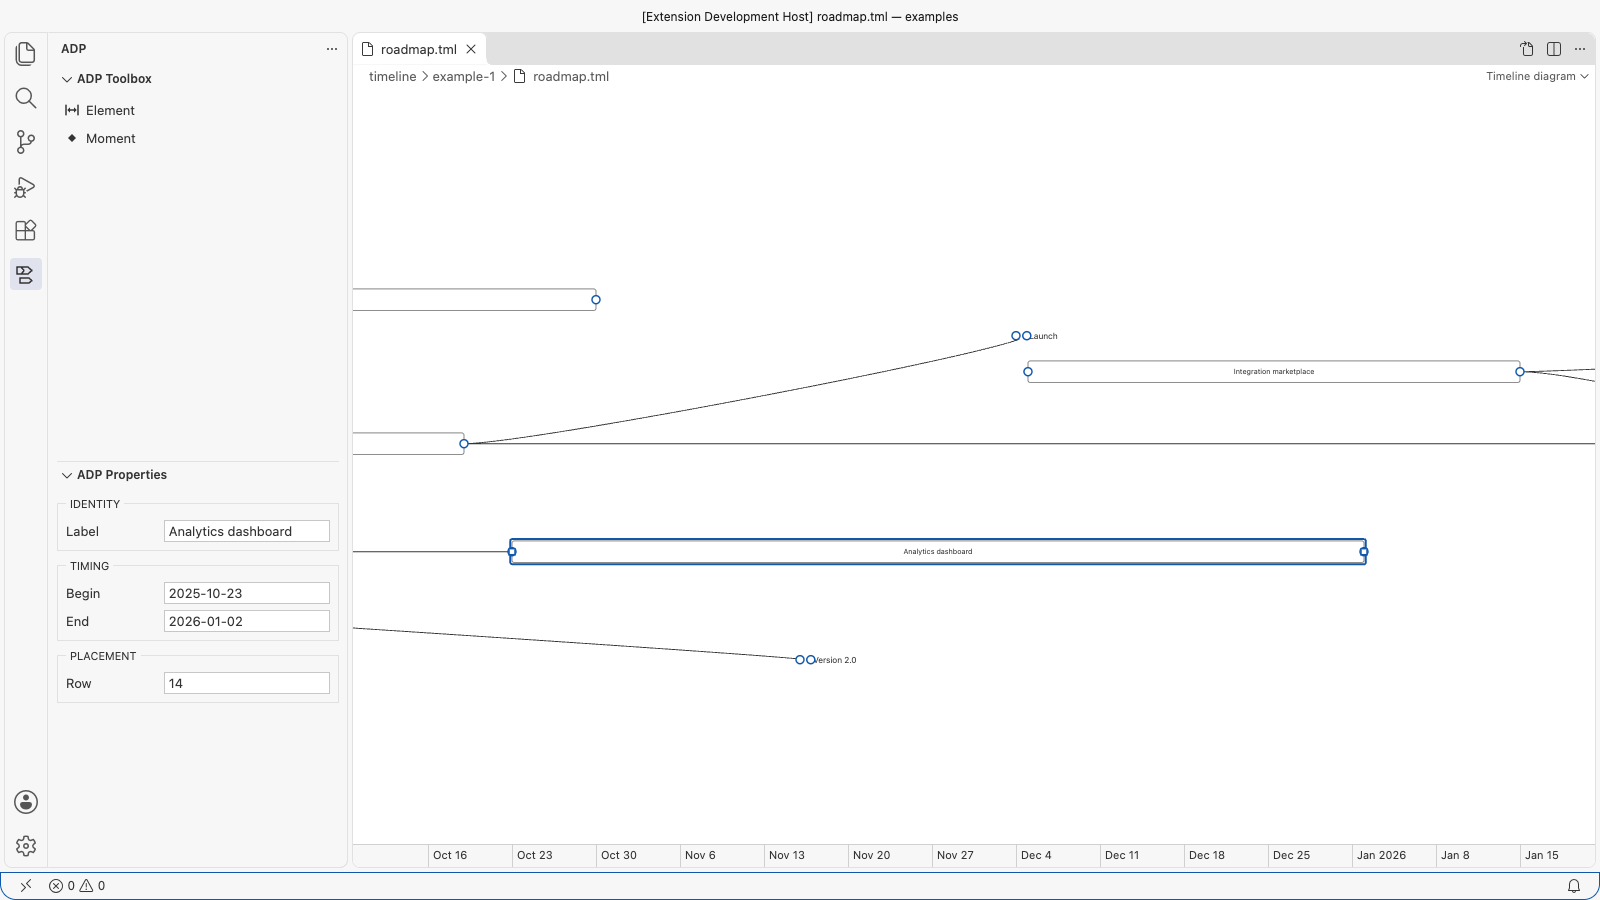
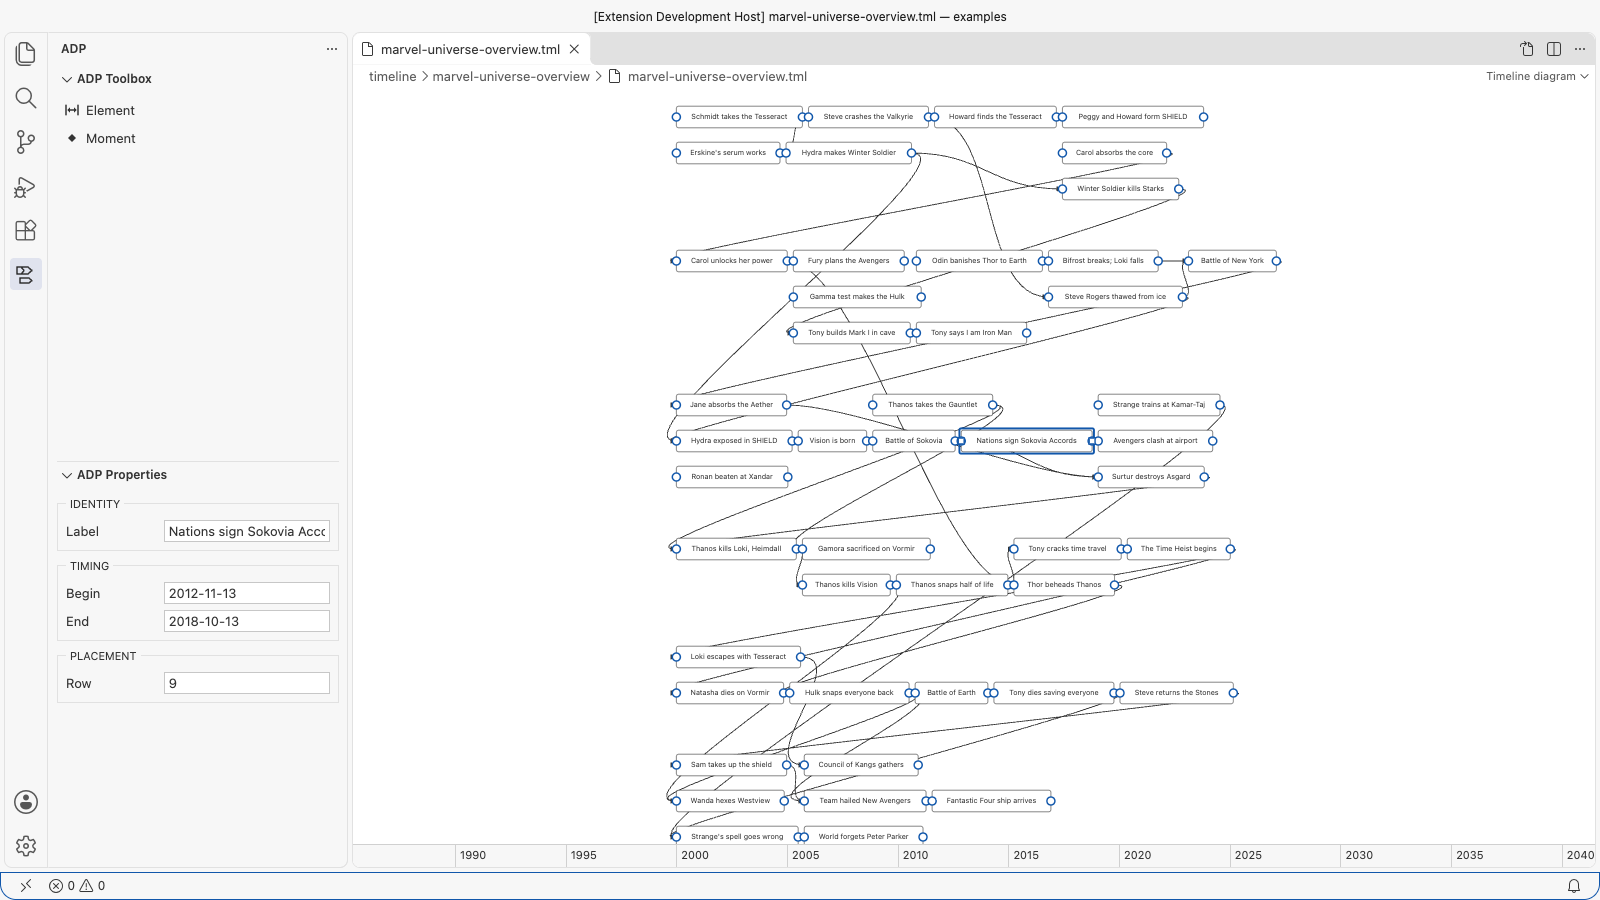
Timeline: host re-check after the fixes (spec 091, T031)
Re-ran the timeline host test after #122, #123 and #125: every example now opens
with its whole span of time in view, moments are visible diamonds and connections
enter their target from the left with an arrowhead (rows 1 to 3), marvel-universe
draws in about half a second, and a line let go on a begin dot connects. A new
user's first element still lands in 1970 (etalii.adp #853) and is lost from view
once its dates are typed, so the timeline stays a work in progress. The README
screenshot is retaken from marvel-universe-overview, which now reads.

diff --git a/docs/tools.md b/docs/tools.md
@@ -40,7 +40,7 @@ Each tool type is specified in [etalii.adp](https://github.com/etalii-adp/etalii
     <tr><td style="white-space: nowrap;">⚗&nbsp;Prototype</td><td style="white-space: nowrap;"><code>freeplane/mindmap</code></td><td>Mind map</td><td>Diagram</td><td><a href="https://en.wikipedia.org/wiki/Mind_map">Mind map (Wikipedia)</a>; <a href="https://www.freeplane.org/">Freeplane</a></td><td>Mind map (ideas branching from one central topic, the first branches to its left and right, each node with its text, notes and a link, and branches that fold; <code>.mm</code>, the Freeplane format, which FreeMind reads too, with everything the tool does not understand kept byte for byte); <a href="https://github.com/etalii-adp/etalii.adp/blob/develop/definitions/diagrams/mindmap.md">definition</a> · <a href="https://github.com/etalii-adp/etalii.adp.ide.vscode/tree/develop/examples/mindmap">two example maps</a>, the standalone host's own</td></tr>
     <tr><td style="white-space: nowrap;">⚗&nbsp;Prototype</td><td style="white-space: nowrap;"><code>systems/causal-loop-diagram</code></td><td>Causal loop diagram</td><td>Diagram</td><td><a href="https://en.wikipedia.org/wiki/Causal_loop_diagram">Causal loop diagram (Wikipedia)</a>; system dynamics</td><td>Causal loop diagram (variables joined by causal links that state a polarity and may be delayed, and the feedback loops an author claims, each checked against the arrows as reinforcing, balancing or undecidable; <code>.cld</code>, a line-based text format of the standalone host, with positions kept in the <code>.adp</code> registration beside it); <a href="https://github.com/etalii-adp/etalii.adp/blob/develop/definitions/diagrams/causal-loop-diagram.md">definition</a> · <a href="https://github.com/etalii-adp/etalii.adp.ide.vscode/tree/develop/examples/causal-loop-diagram">six example diagrams</a>, the standalone host's own; exports the animated flow page the desktop host does</td></tr>
     <tr><td style="white-space: nowrap;">⚗&nbsp;Prototype</td><td style="white-space: nowrap;"><code>generic/dependencies</code></td><td>Dependency graph</td><td>Diagram</td><td>A notation of ADP's own on the <code>generic/timeline</code> model: no standards body owns "a box depends on a box", so ADP defines the schema and owns the extension; specified in DISL 0.10 and FBL in <a href="https://github.com/etalii-adp/etalii.adp/blob/develop/definitions/diagrams/dependency-graph.md">etalii.adp</a></td><td>Dependency graph (named nodes on rows, freely placed and joined by directed depends-on edges drawn with an arrowhead; <code>.dgr</code>, ADP's own YAML schema); built to the standalone host's behaviour by etalii.adp spec 088: its findings, drawing, menus, rows, gestures and every edit of standalone's parity transcript, the differences listed in <a href="https://github.com/etalii-adp/etalii.adp.ide.vscode/blob/develop/docs/disl-support.md">disl-support.md</a>; host-tested beside the standalone host in <a href="https://github.com/etalii-adp/etalii.adp.ide.vscode/blob/develop/docs/host-tests/dependency-graph.md">host-tests/dependency-graph.md</a>; <a href="https://github.com/etalii-adp/etalii.adp/blob/develop/definitions/diagrams/dependency-graph.md">definition</a> · <a href="https://github.com/etalii-adp/etalii.adp.ide.vscode/tree/develop/examples/dependency-graph">one example graph</a>, the standalone host's own</td></tr>
-    <tr><td style="white-space: nowrap;">🛠&nbsp;Work-in-progress</td><td style="white-space: nowrap;"><code>generic/timeline</code></td><td>Timeline diagram</td><td>Diagram</td><td>A notation of ADP's own: elements with a begin and an end, and moments, on rows against a ruler of dates; specified in DISL and FBL in <a href="https://github.com/etalii-adp/etalii.adp/blob/develop/definitions/diagrams/timeline.md">etalii.adp</a></td><td>Timeline diagram (periods as bars and moments as diamonds on rows, under a ruler that runs from decades down to days, joined by connections; <code>.tml</code>, ADP's own YAML schema); being built to the standalone host's behaviour by etalii.adp spec 091: its findings, drawing, gestures snapped to whole days, Give it an end and Remove its end, and Arrange diagram, replayed against the timeline's conformance fixtures, the differences listed in <a href="https://github.com/etalii-adp/etalii.adp.ide.vscode/blob/develop/docs/disl-support.md">disl-support.md</a> and <a href="https://github.com/etalii-adp/etalii.adp.ide.vscode/blob/develop/docs/parity.md">parity.md</a>; host-tested beside the standalone host in <a href="https://github.com/etalii-adp/etalii.adp.ide.vscode/blob/develop/docs/host-tests/timeline.md">host-tests/timeline.md</a>, which found blocking differences; <a href="https://github.com/etalii-adp/etalii.adp/blob/develop/definitions/diagrams/timeline.md">definition</a> · <a href="https://github.com/etalii-adp/etalii.adp.ide.vscode/tree/develop/examples/timeline">four examples</a>, the standalone host's own</td></tr>
+    <tr><td style="white-space: nowrap;">🛠&nbsp;Work-in-progress</td><td style="white-space: nowrap;"><code>generic/timeline</code></td><td>Timeline diagram</td><td>Diagram</td><td>A notation of ADP's own: elements with a begin and an end, and moments, on rows against a ruler of dates; specified in DISL and FBL in <a href="https://github.com/etalii-adp/etalii.adp/blob/develop/definitions/diagrams/timeline.md">etalii.adp</a></td><td>Timeline diagram (periods as bars and moments as diamonds on rows, under a ruler that runs from decades down to days, joined by connections; <code>.tml</code>, ADP's own YAML schema); being built to the standalone host's behaviour by etalii.adp spec 091: its findings, drawing, gestures snapped to whole days, Give it an end and Remove its end, and Arrange diagram, replayed against the timeline's conformance fixtures, the differences listed in <a href="https://github.com/etalii-adp/etalii.adp.ide.vscode/blob/develop/docs/disl-support.md">disl-support.md</a> and <a href="https://github.com/etalii-adp/etalii.adp.ide.vscode/blob/develop/docs/parity.md">parity.md</a>; host-tested beside the standalone host in <a href="https://github.com/etalii-adp/etalii.adp.ide.vscode/blob/develop/docs/host-tests/timeline.md">host-tests/timeline.md</a>, whose re-check after the fixes leaves a new user's first element in 1970 and out of view; <a href="https://github.com/etalii-adp/etalii.adp/blob/develop/definitions/diagrams/timeline.md">definition</a> · <a href="https://github.com/etalii-adp/etalii.adp.ide.vscode/tree/develop/examples/timeline">four examples</a>, the standalone host's own</td></tr>
     <tr><td style="white-space: nowrap;">⚗&nbsp;Prototype</td><td style="white-space: nowrap;"><code>etalii/knowledge</code></td><td>Knowledge</td><td>Designer</td><td>A table of knowledge as <a href="https://www.notion.com/help/database-properties">Notion's databases</a> have it, kept in a plain file; specified in DESL 0.1 and FBL in <a href="https://github.com/etalii-adp/etalii.adp/blob/develop/definitions/designers/knowledge.md">etalii.adp</a></td><td>Knowledge (rows and typed properties in a YAML, JSON or XML file you own: text, number, checkbox, date, date and time, time, selection, multiple selection and relation, with stored views that choose, order, sort, filter and group the columns; a file opens in the designer when its envelope names it, and every other YAML, JSON and XML file stays text); <a href="https://github.com/etalii-adp/etalii.adp/blob/develop/definitions/designers/knowledge.md">definition</a> · <a href="https://github.com/etalii-adp/etalii.adp.ide.vscode/tree/develop/examples/knowledge">one table in each of the three formats, and the table its relation names</a>, the standalone host's own</td></tr>
     <tr><td colspan="6"><h3>Service management</h3><p>Tool types for seeing how a service is delivered, measured and learned from.</p></td></tr>
     <tr><td style="white-space: nowrap;">🛠&nbsp;Work-in-progress</td><td style="white-space: nowrap;"><code>generic/value-stream-map</code></td><td>Value stream map</td><td>Diagram</td><td><a href="https://en.wikipedia.org/wiki/Value-stream_mapping">Value-stream mapping</a>, as ITIL 4 uses it for a service's value streams; specified in DISL and FBL in <a href="https://github.com/etalii-adp/etalii.adp/blob/develop/definitions/diagrams/value-stream-map.md">etalii.adp</a></td><td>Value stream map (a trigger, steps with their performer, process and waiting time, and an outcome joined by flows, in a current and a future state; <code>.vsm</code>, ADP's own YAML schema); being built by etalii.adp spec 090: it opens, draws and edits, Create future state included, with the totals of each state and the comparison of the two, the differences listed in <a href="https://github.com/etalii-adp/etalii.adp.ide.vscode/blob/develop/docs/disl-support.md">disl-support.md</a>; <a href="https://github.com/etalii-adp/etalii.adp/blob/develop/definitions/diagrams/value-stream-map.md">definition</a> · <a href="https://github.com/etalii-adp/etalii.adp.ide.vscode/tree/develop/examples/value-stream-map">two examples</a></td></tr>

diff --git a/docs/host-tests/timeline.md b/docs/host-tests/timeline.md
@@ -100,3 +100,63 @@ None is fixed in this change.
 ## Verdict
 
 Blocking. Visual Studio Code reads and draws all four examples without a finding, as fast as SC-004 asks, and a new user can reach three periods, a moment and a connection; but moments are not drawn, connections show no arrowheads, a long timeline can never be seen whole or readably, a new timeline starts in 1970, and letting go on a dot duplicates an element. The timeline stays a work in progress in [tools.md](../tools.md) until rows 1 to 3 and the bugs above are settled.
+
+## Re-check after the fixes
+
+The same tests on 2026-11-25, after [#122](https://github.com/etalii-adp/etalii.adp.ide.vscode/pull/122) (moments in the theme's accent colour, a line let go on a dot connects), [#123](https://github.com/etalii-adp/etalii.adp.ide.vscode/pull/123) (the time axis fitted to the document when it opens) and [#125](https://github.com/etalii-adp/etalii.adp.ide.vscode/pull/125) (a line's end direction is the side it enters by). This repository's `develop` at `2cf32f8`, packaged as `etalii-adp-0.2.4.vsix` and installed into a fresh profile, on the same Mac, Visual Studio Code 1.147.0, 1600×900, both themes. The standalone host is unchanged (`9555565`), so its pictures above still stand beside these.
+
+### Rows 1, 2 and 3
+
+| | Light | Dark |
+|---|---|---|
+| `example-1` / `example-2` | ![example-1, light](timeline/recheck-example-1-light.png) | ![example-2, dark](timeline/recheck-example-2-dark.png) |
+| `marvel-universe-overview` | ![Overview, light](timeline/recheck-overview-light.png) | ![Overview, dark](timeline/recheck-overview-dark.png) |
+
+| # | Then | Now | Result |
+|---|---|---|---|
+| 1 | About three months in view at 20 units a day; a long timeline never readable whole | Every example opens with its whole span of time in view and its labels readable: `example-1` from April 2025 to July 2026, `example-2` 2024 to 2029, both overviews 1990 to 2040, the ruler naming years. All the rows of `example-1` and `example-2` are in view. `marvel-universe-overview`'s last row (row 20, Strange's spell goes wrong and World forgets Peter Parker) lies under the ruler: the drawing ends 36 pixels below the ruler's top. `marvel-universe` has 233 rows, and about 20 of them are in view, so the rest are reached by scrolling down ([picture](timeline/recheck-marvel-universe-light.png)); the standalone host draws all 233 in one column too small to read | Passes for time. The overview's last row is hidden, which is a small bug of the fit. The tall document opening at a readable size is this host's convention ([parity.md](../parity.md)) |
+| 2 | No diamond | A filled diamond in the theme's accent colour, in both themes ([picture](timeline/recheck-arrowheads-dark.png)). Its two dots cover most of it, as the standalone host's dots do | Passes |
+| 3 | No arrowheads; lines entering from the right | Every line enters its target from the left, with a filled arrowhead before the target's begin, pointing into it ([picture](timeline/recheck-arrowheads-dark.png)) | Passes |
+
+Two smaller differences remain. A connection to a target that begins before its source ends runs straight back underneath the source's bar, where the standalone host loops forward and back ([picture](timeline/recheck-new-user-done.png)); timeline.dis does not ask for the loop (`bezier.backward`). On a short bar, the begin dot covers the first letter of its label ("ntegration ...", "ngesti..."), as in the standalone host.
+
+### `marvel-universe.tml` (SC-004)
+
+| Run | First drawn | All 907 drawn |
+|---|---|---|
+| 1 | 460 ms | 684 ms |
+| 2 | 306 ms | 497 ms |
+| 3 | 302 ms | 519 ms |
+
+Pan and zoom, 60 wheel steps each and again zoomed fully out: median 16.7 ms between frames, 95th percentile 17.2 to 18.9 ms, maximum 35.8 ms, no frame over 50 ms. No stutter. Passes.
+
+### A new user, again (SC-005)
+
+The same steps, in a fresh profile with an empty folder, Light Modern.
+
+| Step | Now |
+|---|---|
+| "New Timeline" in the Command Palette | Still two matches, the ADP command and Explorer: Focus on Timeline View. |
+| ADP: New Timeline diagram, OK | `untitled.tml` opens with ADP Toolbox, on an empty canvas whose ruler reads "Jan 1970". |
+| Element from ADP Toolbox | **"New element" from 1970-02-01 to 1970-02-15** ([picture](timeline/recheck-new-user-1970.png)): etalii.adp [#853](https://github.com/etalii-adp/etalii.adp/issues/853), still open. |
+| Begin set to `2026-01-05` in ADP Properties | **The element disappears**, with one warning in the status bar. |
+| End set to `2026-02-15` | The element is valid again but drawn 56 years from the view, which stays on February 1970 ([picture](timeline/recheck-new-user-out-of-view.png)). There is still no command to show the whole timeline or the selection; the fit of #123 happens only when the file opens, so I closed the tab and opened the file again. |
+| Tab, Enter | A period after it and one below it, each connected: three periods. |
+| Moment from ADP Toolbox | "New moment" on 2026-01-11, a visible diamond. The toolbox kept working after the tab had been closed and opened again. |
+| A line from the third period's end dot, let go on the second period's begin dot | **It connects** (`from: ptz7o5d5`, `to: waockcl2`), with no new element ([picture](timeline/recheck-new-user-done.png)). Let go outside the window, a line still makes a new element where it ends, as the definition says for empty canvas. |
+
+No error dialog, and the goal is reached. What is left for a new user:
+
+1. **A new timeline starts in 1970** (etalii.adp #853).
+2. **The element vanishes while its dates are typed**, and once the dates are right it is far from the view. There is no way to bring it into view short of opening the file again: no fit or go-to-selection command, and the view does not follow an element moved through ADP Properties.
+3. "Timeline" still also finds Visual Studio Code's own Timeline view.
+
+### Verdict of the re-check
+
+Rows 2 and 3 pass, and row 1 passes for time, apart from `marvel-universe-overview`'s last row lying under the ruler. SC-004 passes. The line let go on a dot is fixed. The new-user rule, no errors or hurdles, is not met yet: hurdles 1 and 2 together leave a new user's first element in 1970 and then out of sight, with no way to bring it back except opening the file again. So the timeline stays 🛠 Work-in-progress in [tools.md](../tools.md). It can move to ⚗ Prototype once a new timeline starts near today (#853) and an element changed through ADP Properties stays in view or can be brought into view, and the overview's last row is clear of the ruler.
+
+None of these is fixed in this change:
+
+- **VS Code: the fit leaves the last row under the ruler.** `marvel-universe-overview.tml` opens with its drawing reaching 790 pixels into a 777 pixel surface whose ruler starts at 754, so row 20 is hidden.
+- **VS Code: the view does not follow an element moved through ADP Properties**, and there is no command to show the whole document or the selection.
+- **etalii.adp #853**: a new timeline starts at the Unix epoch.

diff --git a/docs/screenshots/readme.md b/docs/screenshots/readme.md
@@ -27,7 +27,7 @@ The whole procedure is executable: [`capture.mjs`](capture.mjs) drives all of th
 | `agent-activity-diagram.png` | `agent-activity-diagram/adp-one-day/` → `adp-one-day.aad` | ADP on one day: the projects, specifications with their task groups, agents, locations and environments, each in the shape and colour of its kind, with the Show archived switch; ADP Toolbox listing Project, Specification, Agent, Location and Environment; the element nearest the middle selected, with its properties in ADP Properties. |
 | `causal-loop.png` | `causal-loop-diagram/on-call/` → `on-call.cld` | The on-call diagram centred in its tab: its variables as pills joined by curved links with their polarity at the arrow head and the delay mark across a delayed link, and its claimed loops with their R or B; ADP Toolbox showing Variable, Causal link and Feedback loop, ADP Properties the selected variable's rows |
 | `dependency-graph.png` | `dependency-graph/example-1/` → `services.dgr` | The storefront's services as boxes on their rows, each dependency a curve from the dependent's right side to the left side of what it depends on with a filled arrowhead there and its label above the middle, the three dependencies of Order service fanning out to Payment, Inventory and the broker; ADP Toolbox showing Node; the node nearest the middle (Order service) selected, with its dots on both sides and its Label, X and Row in ADP Properties. Light theme. |
-| `timeline.png` | `timeline/example-1/` → `roadmap.tml` | The roadmap's periods as bars on their rows under the ruler of dates, joined by connections, with the moments Launch and Version 2.0 by their labels; ADP Toolbox showing Element and Moment; the period nearest the middle (Analytics dashboard) selected, with its label, begin, end and row in ADP Properties. Light theme. Taken from `example-1` rather than `marvel-universe-overview`, whose first view shows bars without labels (see [host-tests/timeline.md](../host-tests/timeline.md)); retake it when the timeline opens whole. |
+| `timeline.png` | `timeline/marvel-universe-overview/` → `marvel-universe-overview.tml` | The overview's periods as bars on their rows under the ruler of years (1990 to 2040), their labels readable, joined by connections that enter each target from the left with an arrowhead; ADP Toolbox showing Element and Moment; the period nearest the middle (Nations sign Sokovia Accords) selected, with its label, begin, end and row in ADP Properties. Light theme. |
 | `hierarchical-requirement.png` | `hierarchical-requirement/` → `web-shop.md`, opened in the Hierarchical Requirement Designer (the profile associates the file with it, since Markdown opens as text by default) | The web shop's requirements as a page of boxes: Storefront, Backend and the levels they hold in columns side by side, each requirement with its number, title, tags, category badge and state dot and its description with the mentions it makes, Guest checkout and Every page loads collapsed, the trail, the filter bar with its order and stored filters, and the finding about the entry written with `REQ-NEW` above them; ADP Toolbox showing Item and Requirement; the requirement REQ-0004 (An order is confirmed by e-mail) selected, with its id, title, description, tags, category and state in ADP Properties. A page of boxes has no drawing to centre. Never the NIST SP 800-53 example. |
 | `value-stream-map.png` | `value-stream-map/` → `request-fulfilment.vsm` | The current state of request fulfilment, from the trigger chevron through the steps to the outcome, with no two steps overlapping: Build custom and Check result one row below Fulfil from catalogue, the 80 % and 20 % alternatives and the rework loop between them, each step with its performer and its times; the state's totals and the comparison of the two states to its right. Zoomed out once if needed, so that the trigger and the comparison are both in view. ADP Toolbox listing Trigger, Step, Outcome, Flow, Alternative and Rework; the step Build custom selected, with its process time `PT2H` and wait time `P1D` in ADP Properties. |
 | `slo-map.png` | `openslo-slo/` → `specification-samples.yaml`, opened with **Open as SLO map** | The specification's samples as a map: the SLO, its objective, SLI, alert policy, alert condition and notification targets, with dashed placeholders for the service and data source the file only names; ADP Toolbox listing the OpenSLO kinds; Foo SLO selected, with its window, Rolling as a ticked switch and its budgeting method in ADP Properties. |
